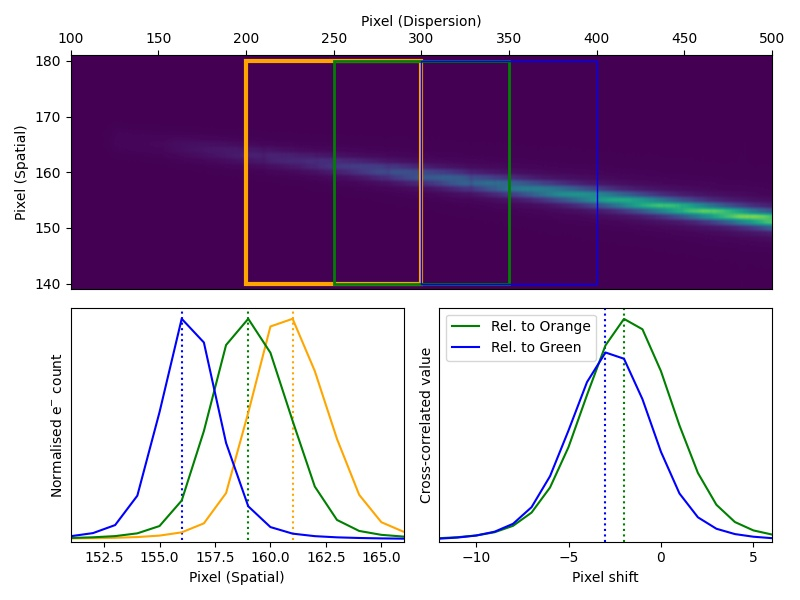
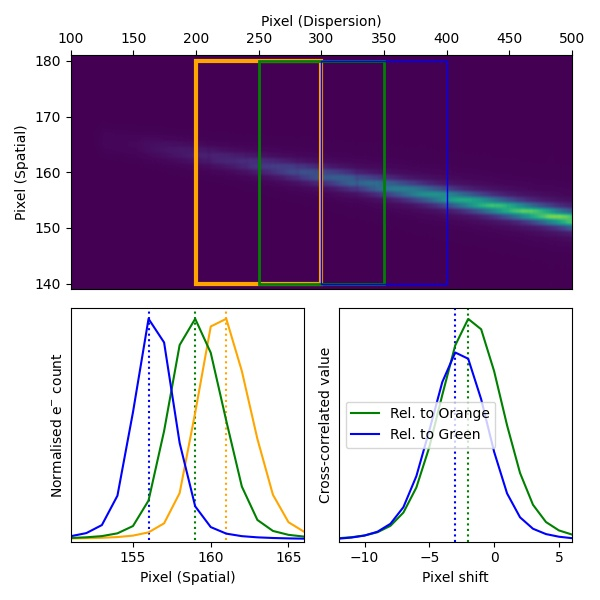
changed fig 1 dimension

diff --git a/fig_01_tracing.py b/fig_01_tracing.py
@@ -8,7 +8,7 @@ import numpy as np
 data = fits.open('v_s_20180810_27_1_0_2.fits.gz')[0].data
 data = rotate(data, 2.15)
 
-fig1 = plt.figure(1, figsize=(8, 6))
+fig1 = plt.figure(1, figsize=(6, 6))
 fig1.clf()
 
 # top
